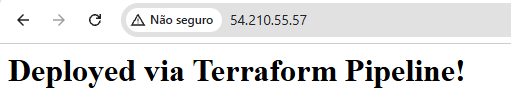
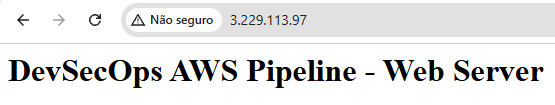
refactor: improve terraform module structure and harden iac security
- refactor: adhere to standard module layout and centralize checkov configuration

- docs: replace screenshot in documentation

diff --git a/README.md b/README.md
@@ -1,101 +1,87 @@
-# Projeto DevSecOps AWS: Pipeline de IaC Segura
+# DevSecOps AWS: Pipeline de IaC com Terraform, OIDC e Checkov
 
-![AWS](https://img.shields.io/badge/AWS-232F3E?style=for-the-badge&logo=amazon-aws&logoColor=white)
-![Terraform](https://img.shields.io/badge/TERRAFORM-844FBA?style=for-the-badge&logo=terraform&logoColor=white)
+![AWS](https://img.shields.io/badge/AWS-FF9900?style=for-the-badge&logo=amazon-aws&logoColor=white)
+![Terraform](https://img.shields.io/badge/terraform-%235835CC.svg?style=for-the-badge&logo=terraform&logoColor=white)
 ![GitHub Actions](https://img.shields.io/badge/GITHUB_ACTIONS-2088FF?style=for-the-badge&logo=github-actions&logoColor=white)
 ![Checkov](https://img.shields.io/badge/CHECKOV-000000?style=for-the-badge&logo=security&logoColor=white)
 
-> **Desafio de Negócio:** Provisionar infraestrutura de alta disponibilidade na nuvem de forma 100% automatizada, eliminando o risco de vazamento de credenciais estáticas e garantindo que vulnerabilidades de segurança sejam bloqueadas antes da aplicação na AWS (*Shift-Left Security*). Tudo operando dentro do limite gratuito (Free Tier).
+Projeto prático de infraestrutura como código (IaC) na AWS com foco em segurança (Shift-Left) e automação de CI/CD. O objetivo é provisionar um ambiente com VPC, Security Groups e Auto Scaling Group no Free Tier, garantindo autenticação sem credenciais estáticas (OIDC) e análise estática de segurança com Checkov antes do deploy.
 
 ---
 
-## Arquitetura da Solução
+## Arquitetura
 
-O fluxo de automação é orientado a eventos no repositório e integrado nativamente aos serviços da AWS:
+O fluxo de CI/CD foi estruturado no GitHub Actions com autenticação federada via OpenID Connect (OIDC):
 
-*   **Em ambiente de Pull Request:** O GitHub Actions solicita credenciais temporárias, gera o plano do Terraform e executa o Checkov. Falhas de segurança bloqueiam a aprovação do código.
-*   **Em ambiente de Produção (Main):** Após validação e *merge*, o pipeline aplica a infraestrutura definitiva na AWS (VPC, Security Groups e Auto Scaling Group).
+* **Pull Requests:** A esteira autentica temporariamente na AWS, gera o plano do Terraform (`tfplan`) e executa a análise estática de vulnerabilidades com Checkov. Se houver falhas de segurança, o merge é bloqueado.
+* **Push na branch `main`:** Após validação e merge, a pipeline executa o `terraform apply` provisionando a infraestrutura na AWS.
 
-<div align="center">
-
-![Arquitetura da Solução](./docs/arquitetura.png)
-
-</div>
+<p align="center">
+  <img src="./docs/arquitetura.png" alt="Arquitetura da Solução" width="800">
+</p>
 
 ---
 
 ## Evidências de Execução
 
-Demonstração do ciclo completo da automação de integração contínua, validação de segurança e provisionamento na nuvem:
+### 1. Bloqueio Preventivo com Checkov (Shift-Left)
+Validação de segurança bloqueando um PR após detectar uma regra de Security Group exposta indevidamente:
 
-### 1. Shift-Left Security (Bloqueio Preventivo)
-> Atuação do Checkov interrompendo o pipeline de *Pull Request* após identificar uma falha de segurança injetada intencionalmente (Security Group expondo porta globalmente), garantindo que código inseguro não avance.
+<p align="center">
+  <img src="./docs/checkov-block.png" alt="Bloqueio Preventivo - Checkov" width="900">
+</p>
 
-<div align="center">
+### 2. Execução da Pipeline de Deploy
+Deploy automatizado na branch principal via GitHub Actions utilizando autenticação OIDC (sem `AWS_ACCESS_KEY_ID` / `AWS_SECRET_ACCESS_KEY` estáticas):
 
-![Bloqueio Preventivo - Checkov](./docs/checkov-block.png)
+<p align="center">
+  <img src="./docs/pipeline-success.png" alt="Execução do Pipeline" width="800">
+</p>
 
-</div>
+### 3. Recursos Provisionados na AWS
+Instâncias EC2 inicializadas via Auto Scaling Group com tags e configurações de rede gerenciadas pelo Terraform:
 
-### 2. Pipeline de Deploy (GitHub Actions)
-> Registros de execução com sucesso na branch principal. O log evidencia a autenticação via OIDC e a aplicação correta dos passos de inicialização, formatação, planejamento e deploy (`terraform apply`).
+<p align="center">
+  <img src="./docs/aws-console.png" alt="Console AWS - Instâncias e VPC" width="800">
+</p>
 
-<div align="center">
+### 4. Validação Funcional da Aplicação
+Servidor web Apache inicializado via script de *User Data* e respondendo na porta 80:
 
-![Execução do Pipeline](./docs/pipeline-success.png)
-
-</div>
-
-### 3. Estado Final (Infraestrutura Provisionada)
-> Comprovação da infraestrutura alocada na AWS. Auto Scaling Group operando com instâncias ativas e a VPC devidamente configurada, isolados sob as *tags* definidas no provisionamento via IaC.
-
-<div align="center">
-
-![Console AWS - Instâncias e VPC](./docs/aws-console.png)
-
-</div>
-
-### 4. Validação Funcional (Acesso Externo)
-> Confirmação da integridade da aplicação web. O script de *User Data* foi executado com sucesso durante o *boot* da instância no ASG, respondendo requisições HTTP na porta autorizada.
-
-<div align="center">
-
-![Servidor Web Ativo](./docs/app-running.png)
-
-</div>
-
-### Nota Arquitetural: Trade-off entre TLS/SSL e FinOps (Free Tier)
-> Embora o núcleo deste projeto seja DevSecOps, o artefato final (a aplicação web) é exposto via HTTP (porta 80) em vez de HTTPS (porta 443). Essa é uma decisão de engenharia deliberada (*Trade-off*) para manter a arquitetura estritamente dentro do AWS Free Tier. A implementação de criptografia em trânsito (HTTPS) exigiria um domínio FQDN registrado e o provisionamento de um Application Load Balancer (ALB) para realizar a terminação SSL, o que gera custos contínuos não cobertos integralmente pela camada gratuita. Portanto, o escopo de segurança deste laboratório está intencionalmente focado na proteção da esteira de CI/CD, gestão de identidade sem senhas e políticas de acesso restritas, priorizando a otimização de custos.
+<p align="center">
+  <img src="./docs/app-running.png" alt="Servidor Web Ativo" width="800">
+</p>
 
 ---
 
-## Destaques Técnicos
+## Decisões Técnicas
 
-A solução foi desenvolvida com foco em automação moderna e governança de nuvem:
-
-*   **Infraestrutura como Código (IaC):** O provisionamento do ambiente (VPC, Subnets, Launch Templates e ASG) foi construído utilizando Terraform 1.10+, adotando a estrutura modular para escalabilidade de código.
-*   **Gestão de Estado Otimizada:** Utilização do recurso de *Native State Locking* do Terraform suportado diretamente pelo Amazon S3, eliminando o custo e a complexidade arquitetural de manter tabelas no DynamoDB.
-*   **Segurança (Least Privilege):** A IAM Role assumida pelo GitHub Actions foi configurada com políticas estritas, concedendo apenas as permissões necessárias para gerenciar serviços específicos de rede e computação, rejeitando o uso de `AdministratorAccess`.
-*   **Autenticação OIDC (OpenID Connect):** Estabelecimento de relação de confiança direta entre a AWS e o GitHub. A eliminação do uso de *Access Keys* e *Secret Keys* fixas mitiga drasticamente a superfície de ataques por vazamento de credenciais.
-*   **Resiliência (Auto Scaling):** Substituição da implantação de instâncias EC2 autônomas por um Auto Scaling Group, assegurando alta disponibilidade e capacidade de autorrecuperação da aplicação sem intervenção manual.
+* **Autenticação OIDC:** Elimina o uso de credenciais de longa duração no repositório. O GitHub Actions assume temporariamente uma IAM Role com permissões de menor privilégio (*Least Privilege*).
+* **Terraform S3 Native State Locking:** Utilização do recurso nativo de bloqueio de estado do Terraform 1.10+ diretamente no S3, dispensando a necessidade de uma tabela DynamoDB dedicada para controle de locks.
+* **Modularização:** Divisão da infraestrutura em módulos reutilizáveis (`network` e `compute`) em `./modules` consumidos pelo ambiente `./environments/dev`.
+* **Alta Disponibilidade com Auto Scaling:** Utilização de Launch Template e Auto Scaling Group para substituição automática de instâncias em caso de falha.
+* **Nota sobre HTTP vs Custos (Free Tier):** A aplicação responde em HTTP (porta 80) para manter o laboratório com custo zero. A implementação de terminação TLS/HTTPS exigiria um Application Load Balancer (ALB) e registro de domínio no Route 53/ACM, gerando custos fora do escopo deste laboratório focado na segurança da esteira de CI/CD.
 
 ---
 
-## Instruções de Reprodução
+## Como Reproduzir
 
-Para auditar ou reproduzir este ambiente de infraestrutura, siga os passos abaixo:
-
-1. **Configuração OIDC (AWS):** Crie um *Identity Provider* no Console IAM apontando para `token.actions.githubusercontent.com`.
-2. **IAM Role (AWS):** Crie uma *Role* com uma *Trust Policy* restrita ao seu repositório GitHub e anexe a política de permissões de *Least Privilege* necessária para os serviços.
-3. **Backend S3 (AWS):** Provisione manualmente (via Console da AWS) um bucket Amazon S3 privado e com versionamento ativado. Atualize o arquivo `environments/dev/providers.tf` com o nome do seu bucket.
-4. **Secrets (GitHub):** Configure a *Secret* de repositório `AWS_ROLE_ARN` contendo o ARN da Role criada no Passo 2.
-5. **Deploy:** Execute o push para a branch `main` ou abra um *Pull Request* para acionar a esteira.
+1. **Configurar OIDC no IAM:**
+   * Crie um *Identity Provider* OIDC no IAM para `token.actions.githubusercontent.com` com audience `sts.amazonaws.com`.
+   * Crie uma IAM Role associada à Trust Policy do seu repositório GitHub e adicione as permissões necessárias para gerenciar VPC e EC2.
+2. **Backend Remoto:**
+   * Crie um bucket S3 privado com versionamento habilitado e ajuste o nome do bucket em `environments/dev/providers.tf`.
+3. **Configurar GitHub Secret:**
+   * Crie a secret `AWS_ROLE_ARN` no repositório com o ARN da Role criada.
+4. **Deploy:**
+   * Crie um Pull Request para testar o scan do Checkov ou faça o push na branch `main` para aplicar a infraestrutura.
 
 ## Descomissionamento
 
-Para evitar custos residuais na conta AWS, proceda com a destruição dos recursos executando a rotina abaixo na máquina local (requer credenciais da AWS configuradas no seu ambiente):
+Para destruir todos os recursos criados:
 
 ```bash
 cd environments/dev
 terraform init
 terraform destroy -auto-approve
+```
